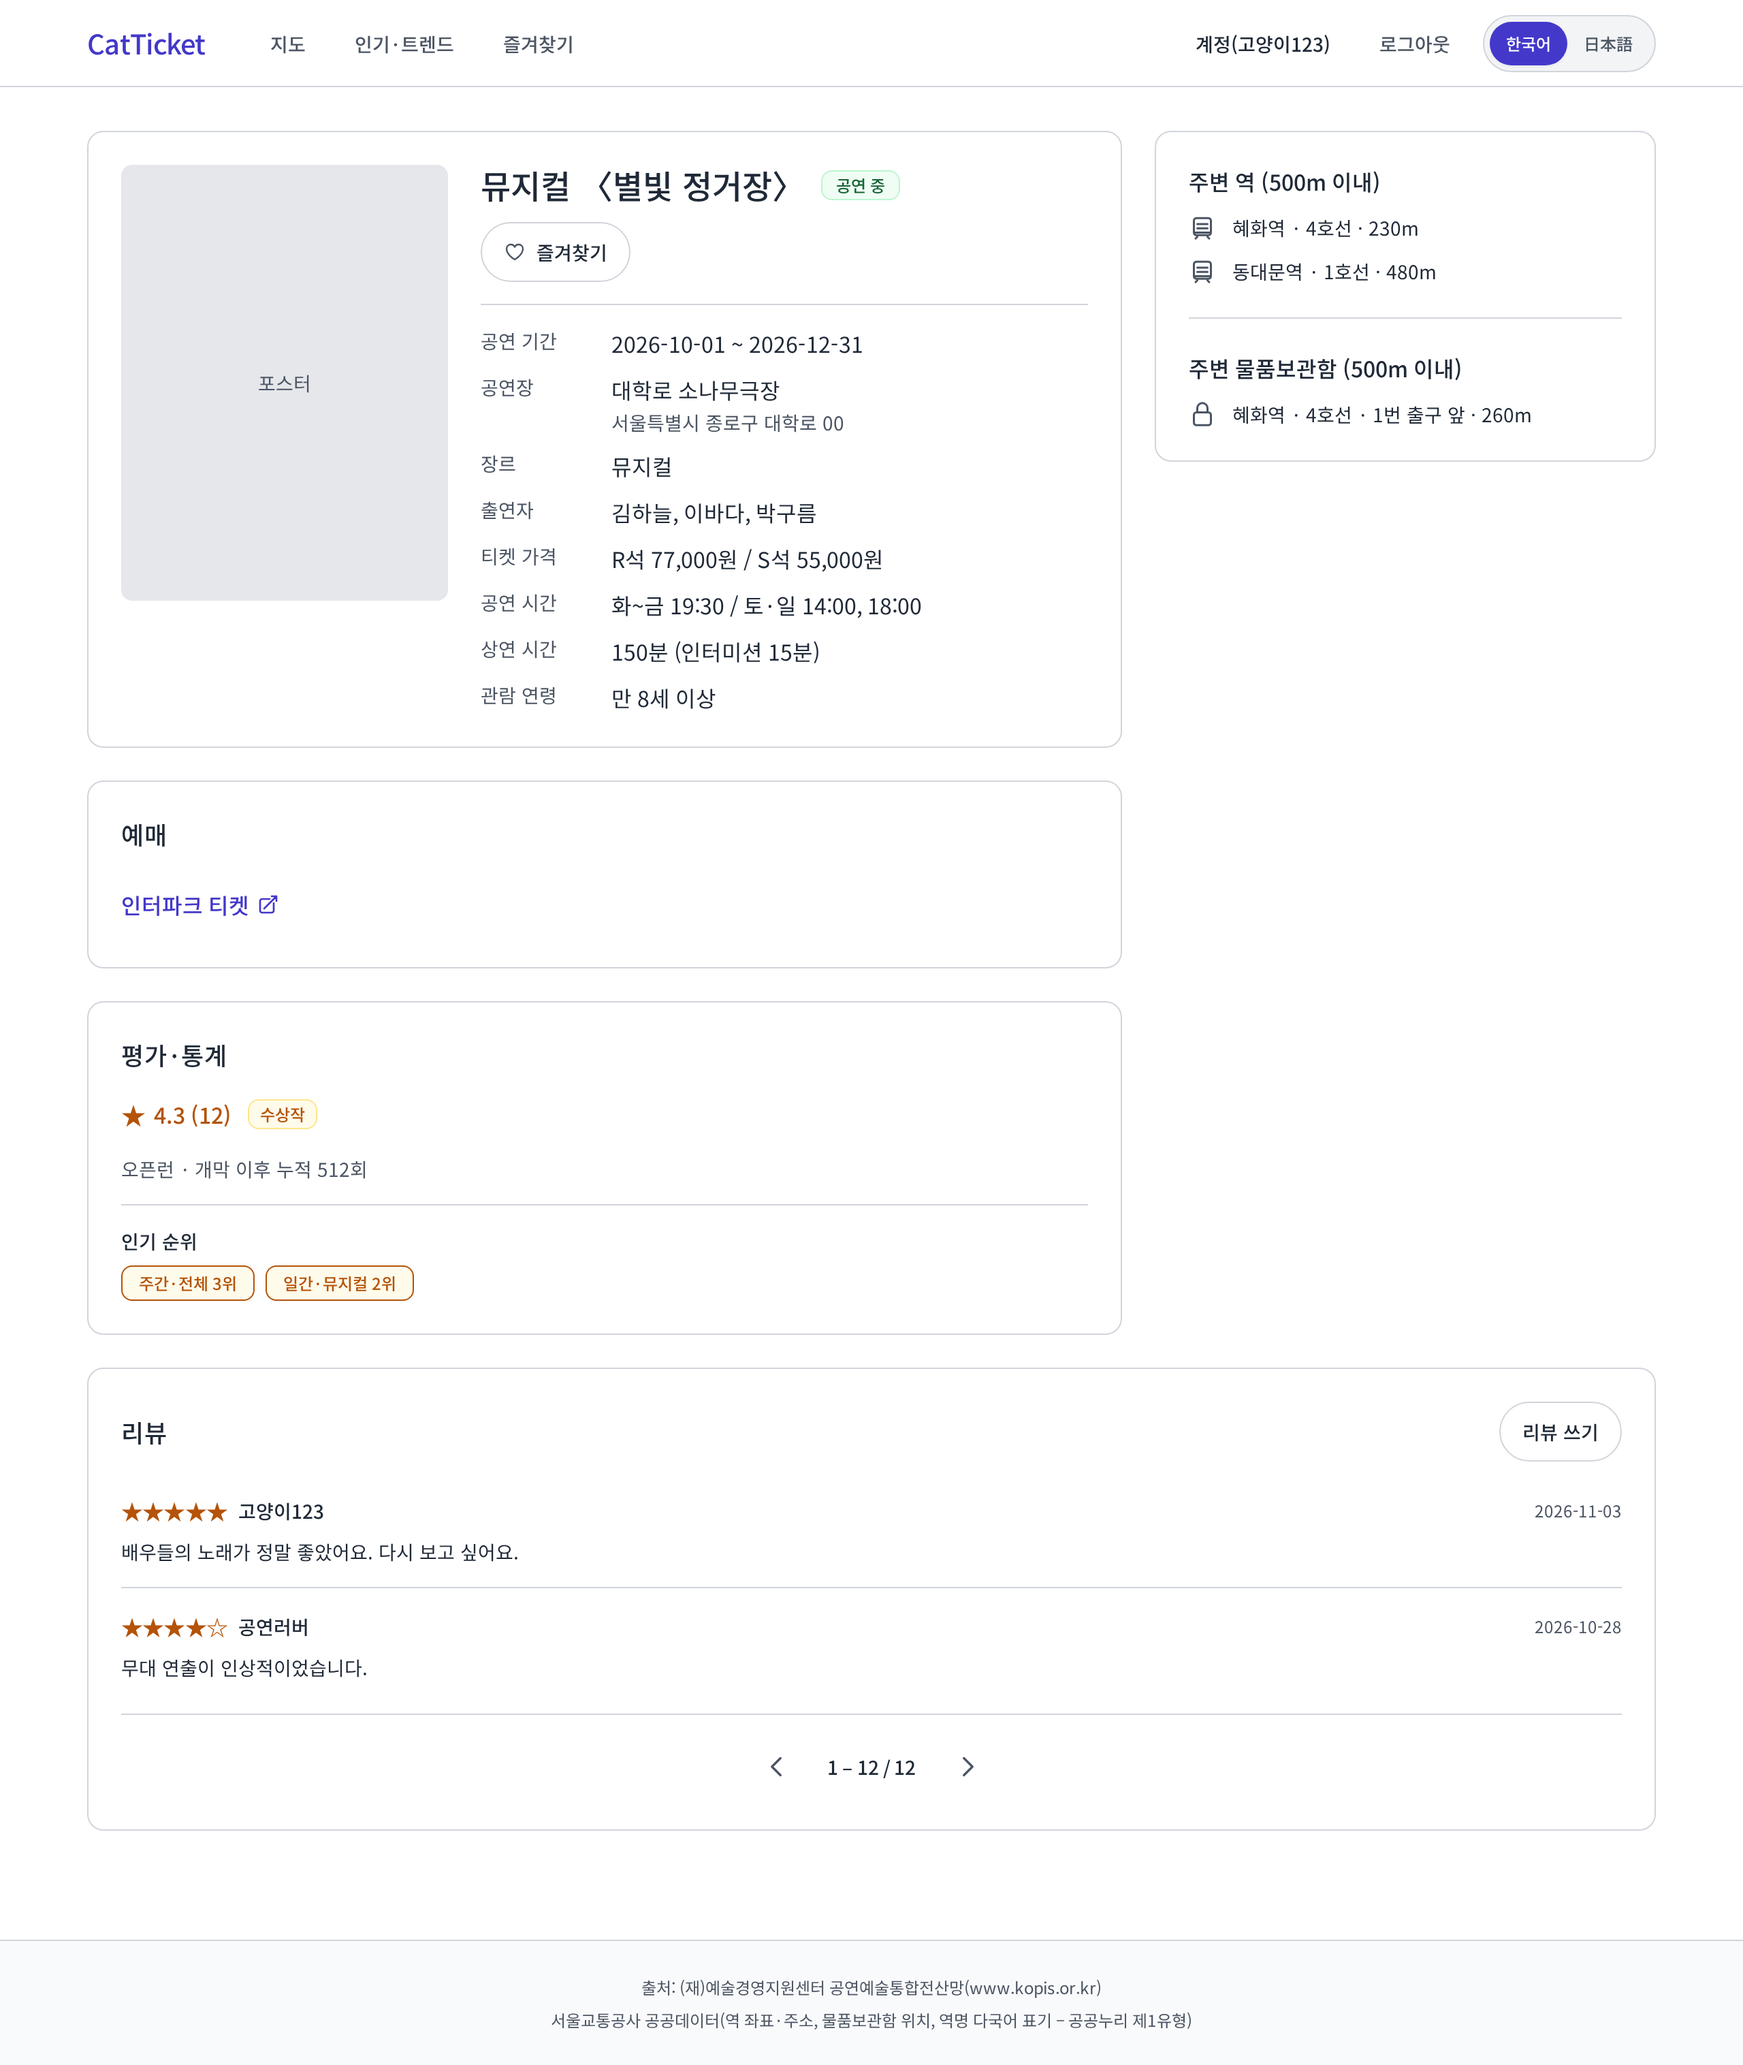
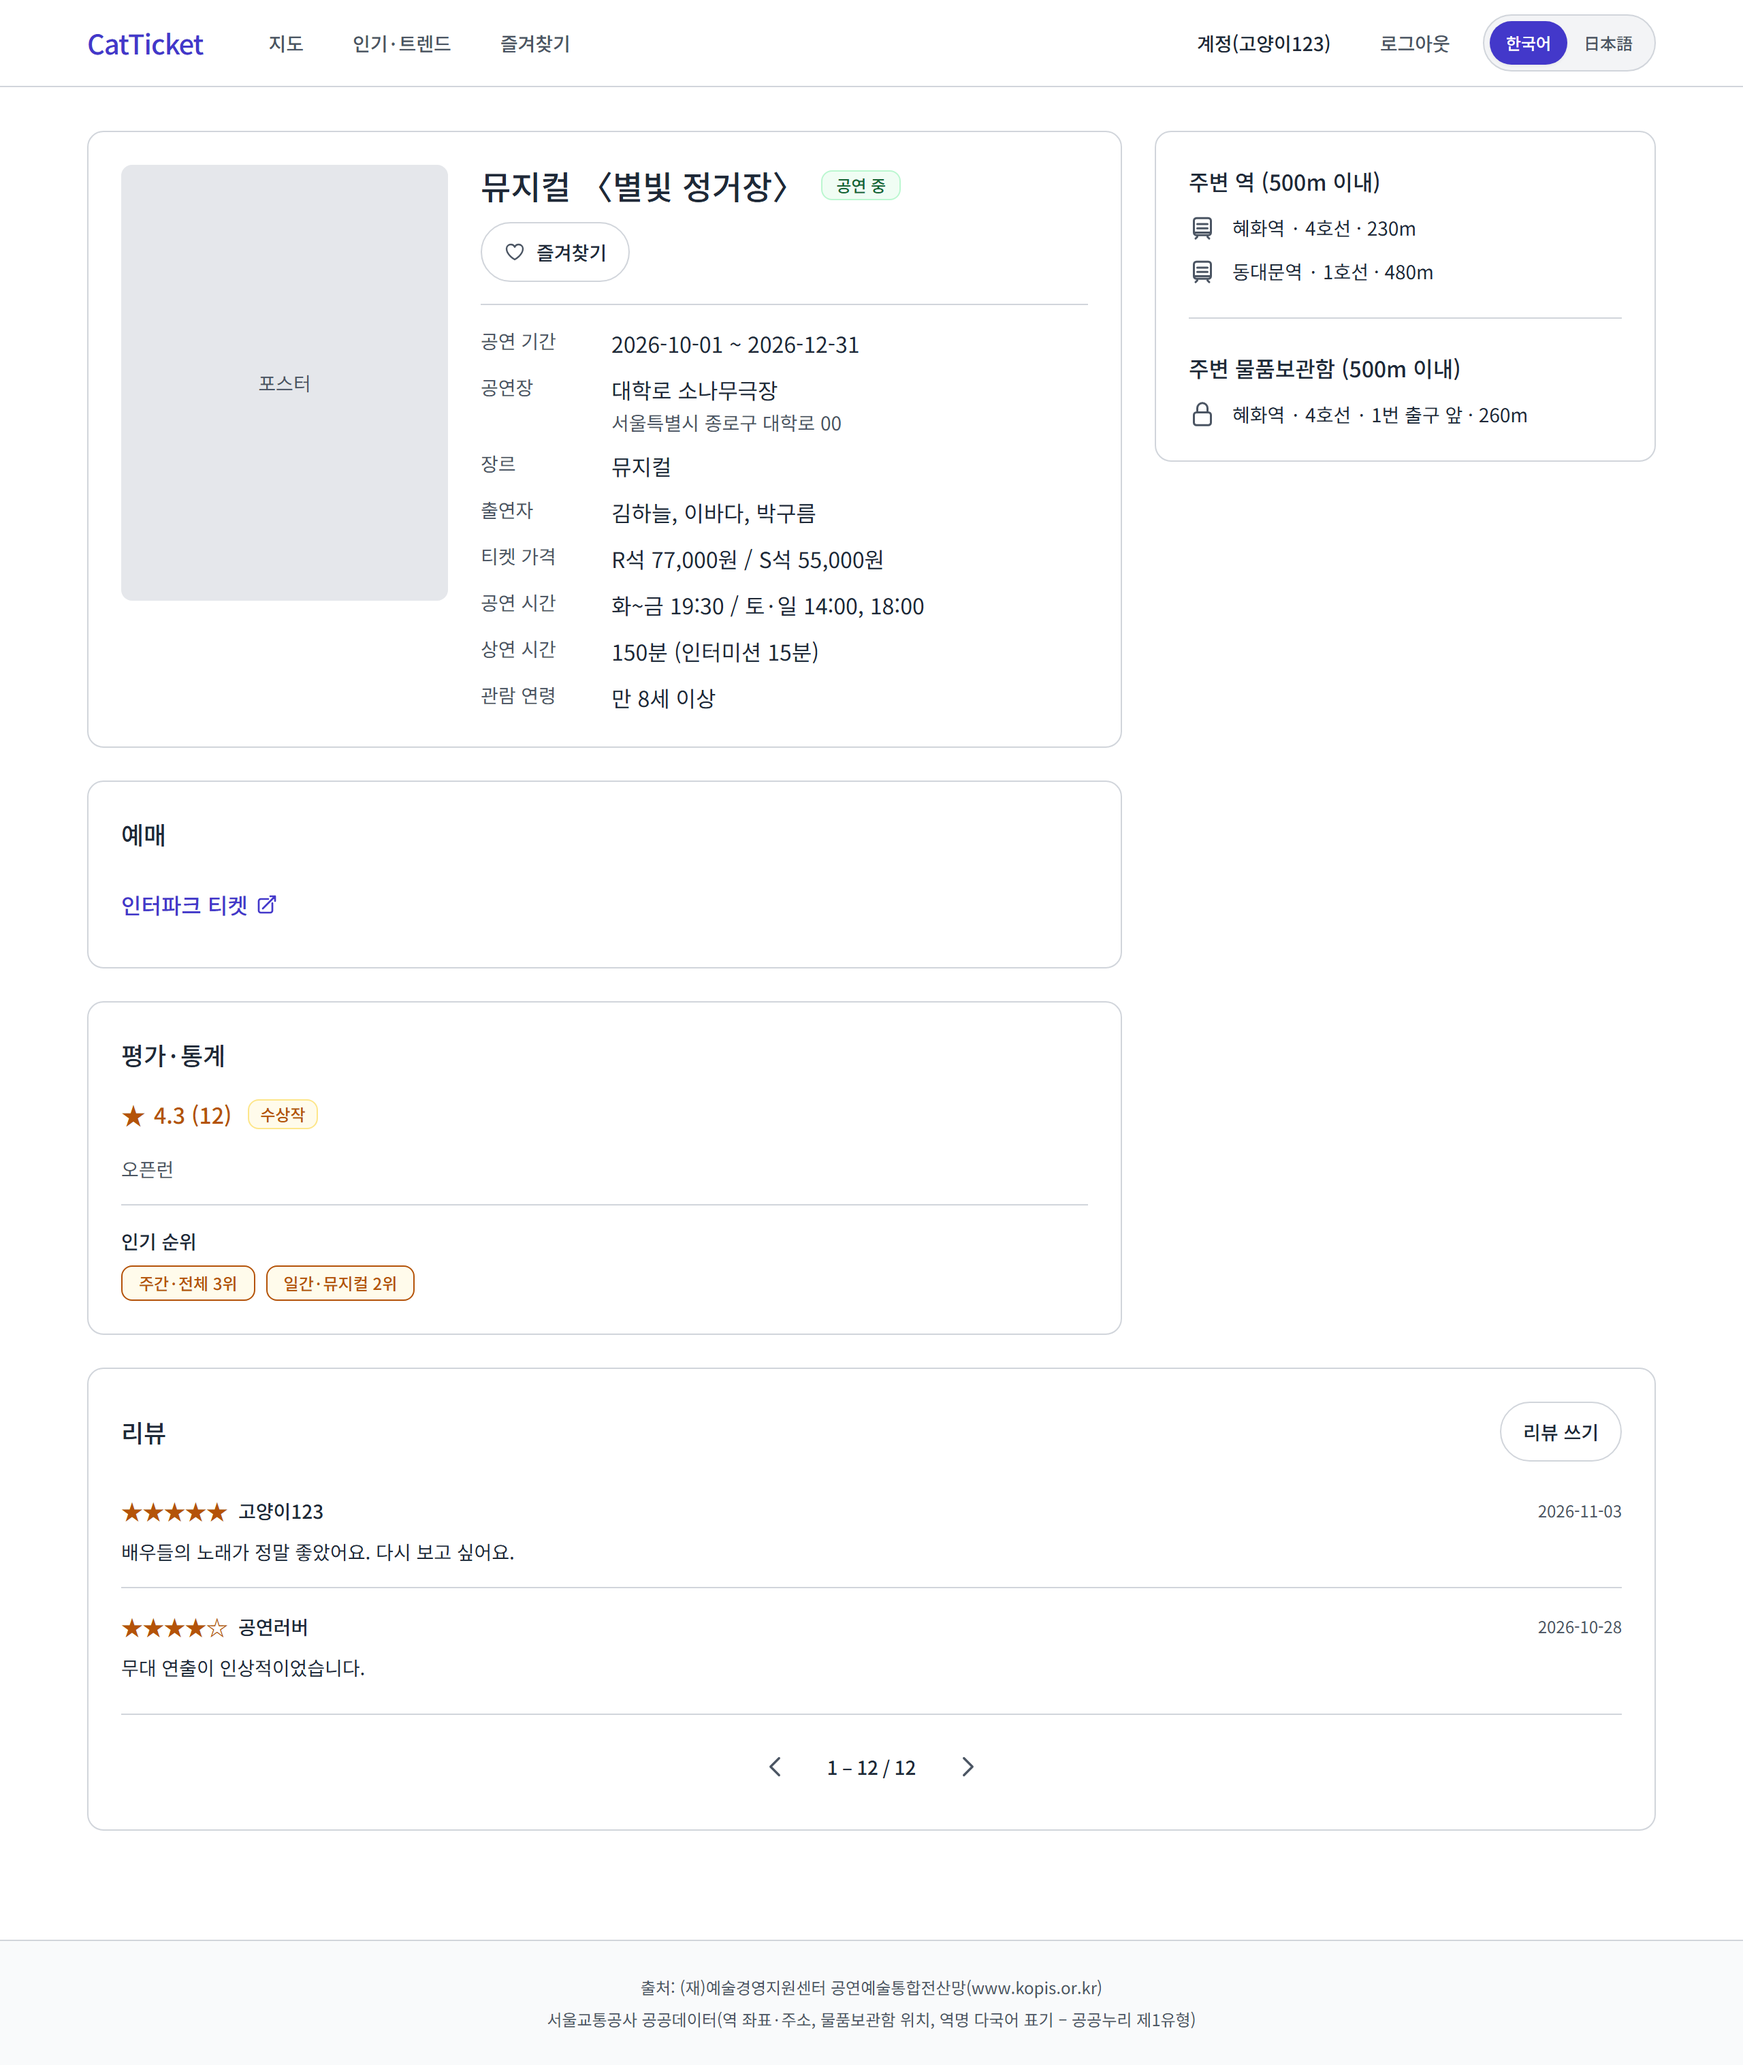
Recapture SC-02 mockup PNGs without run count

diff --git a/docs/design/README.md b/docs/design/README.md
@@ -13,7 +13,7 @@
 | 04 | [テーブル設計書](04-tables.md) | 3〜4 基本設計・詳細設計 | db-designer | ER 図、テーブル定義、インデックス | 基本設計: 承認（2026-11-06、Issue #15 コメント 6678921752）。詳細設計: レビュー済み（Issue #20。確認2 の決定を反映済み、Flyway の V1 を作成し test_catticket への適用を確認済み。ゲート4 の reviewer: 条件付き承認、指摘を反映済み、人間の承認待ち）。Issue #38: `performance.total_show_count` を外した（R-69。Flyway の V2 を作成し、テスト用 DB への適用を確認済み。2026-11-20）、reviewer の確認待ち |
 | 05 | [バッチ設計書](05-batch.md) | 3 基本設計 | architect | 定期処理、外部データの取り込み | 承認（2026-11-06、Issue #15 コメント 6678921752）。工程4（Issue #20）の詳細設計: レビュー済み（ゲート4: reviewer の条件付き承認（2026-11-09）の指摘を反映済み、人間の承認待ち）。Issue #36: 駅・コインロッカーのファイルの確認の結果と人間の決定を 4.2〜4.4・7 に反映（2026-11-19）、reviewer の確認待ち。Issue #38: KOPIS の実際の呼び出しの確認の結果を 3.1〜3.6・7 に反映（2026-11-20）。人間の決定（2026-11-20）で S5 をなくし欠番にした（3.6）。Issue #38 の KOPIS のクライアントの実装に合わせて 3.5 に失敗の数え方と表にない失敗を追記（2026-11-24）。Issue #38 の S1〜S4・S6 の実装で決めたことを 3.3・3.4 に追記し、S4 が保存した受賞作の受賞歴を 3.2 に決めた（2026-11-24）。Issue #38 の S7 の実装で決めたことを 3.7 に追記し、長すぎる原文・再試行しないエラーを決めた（2026-11-24）、reviewer の確認待ち |
 | 06 | [クラス設計書](06-classes.md) | 4 詳細設計 | architect | パッケージ、クラスと主なメソッド、例外の扱い | レビュー済み（Issue #20。04 の 11.7 の A-02〜A-07 を決めて 03・05 にも反映。ゲート4: reviewer の条件付き承認（2026-11-09）の指摘を反映済み、人間の承認待ち）。Issue #23 の決定 D-1〜D-4（コメント 6760227708）を反映（2026-11-10）。PR #32 の reviewer: 条件付き承認、06 への指摘を反映済み、人間の確認待ち。Issue #23 E-2・E-3 反映（2026-11-11）。Issue #36: U-03 解消、5.2（`StepSummary`）・5.4・8.1・A-07 を更新（2026-11-19）、reviewer の確認待ち。Issue #38: 5.2 に `JobLock` の外し方とジョブの `error_message` を追記、U-02 の結果コード・ジャンルを解消し 4.9・5.3・6.4・7.1 を更新（2026-11-20）。人間の決定（2026-11-20）で S5（`ShowCountStep` など）と `totalShowCount` を外した。Issue #38 の KOPIS のクライアントの実装（97ba154）で決めたことを 4.9・7.1 に追記し、直す点を U-12 にした（2026-11-24）。Issue #38 の S1〜S4・S6 の実装で決めたことを 4.9・5.2・5.3・6.4 に書き、U-11 を解消、直す点を U-13・U-14 にした（2026-11-24）。Issue #38 の S7 の実装で決めたことを 4.10 に書き、直す点を U-15 にした（2026-11-24）、reviewer の確認待ち。PR #46 の軽微1: U-12〜U-15 を解消（72d601f・ce393bd・d281b89、2026-11-24） |
-| 07 | [UI デザインガイド](07-ui-guide.md) | 3 基本設計 | ui-designer | 色・文字・余白などのトークン、画面ごとの試作（`mockups/`）との対応 | レビュー済み（2026-11-06 承認、Issue #15 コメント 6678921752。ゲート4（Issue #20）: reviewer の指摘（2026-11-09）により SC-03 の「-」の見た目を追加、人間の承認待ち。Issue #28: 色を「seed と参考の値」に、仮の文言・値、アカウントのリンク、長いニックネーム、スマホ表示の境目 960px、決定 A・B・C（160px・640px の確定、出典のリンクの名前の翻訳）を反映（2026-11-10）、reviewer の確認待ち）。Issue #40: フッターの出典のリンクの見た目（4.2.1）を追加、4.1.1 のヘッダーの幅の見積もりを実測の値に直した（2026-11-20）。Issue #40 コメント 7032252052 の人間の決定により U-4（新しいタブで開くことを見えない文言で知らせる）を解決し、2.6 の「押せる要素の間 8px」を見た目の箱どうしで測ると書いた（2026-11-20）。Issue #38 コメント 7123543509 の決定5（R-69・X-30）により、SC-02 の試作の HTML から上演回数（「개막 이후 누적 512회」）を消した（オープンランの表示は残す。PNG は作り直していない）、reviewer の確認待ち。未決事項なし |
+| 07 | [UI デザインガイド](07-ui-guide.md) | 3 基本設計 | ui-designer | 色・文字・余白などのトークン、画面ごとの試作（`mockups/`）との対応 | レビュー済み（2026-11-06 承認、Issue #15 コメント 6678921752。ゲート4（Issue #20）: reviewer の指摘（2026-11-09）により SC-03 の「-」の見た目を追加、人間の承認待ち。Issue #28: 色を「seed と参考の値」に、仮の文言・値、アカウントのリンク、長いニックネーム、スマホ表示の境目 960px、決定 A・B・C（160px・640px の確定、出典のリンクの名前の翻訳）を反映（2026-11-10）、reviewer の確認待ち）。Issue #40: フッターの出典のリンクの見た目（4.2.1）を追加、4.1.1 のヘッダーの幅の見積もりを実測の値に直した（2026-11-20）。Issue #40 コメント 7032252052 の人間の決定により U-4（新しいタブで開くことを見えない文言で知らせる）を解決し、2.6 の「押せる要素の間 8px」を見た目の箱どうしで測ると書いた（2026-11-20）。Issue #38 コメント 7123543509 の決定5（R-69・X-30）により、SC-02 の試作の HTML から上演回数（「개막 이후 누적 512회」）を消した（オープンランの表示は残す）。Issue #38 コメント 7152704798 の決定3により、PNG 2 枚を直した HTML からヘッドレスの Chrome で撮り直した（2026-11-25）、reviewer の確認待ち。未決事項なし |
 
 テストは `docs/test/`（工程6、qa-engineer）、運用手順は `docs/ops/`（工程7、実行 Claude）に置く。
 
@@ -36,6 +36,6 @@
 | 04 | 테이블 설계서 | 3~4 기본설계·상세설계 | db-designer | ER 다이어그램, 테이블 정의, 인덱스 | 기본설계: 승인(2026-11-06, Issue #15 코멘트 6678921752). 상세설계: 리뷰 완료(Issue #20. 확인 2의 결정을 반영함, Flyway V1을 작성하고 test_catticket 적용을 확인함. 게이트 4 reviewer: 조건부 승인, 지적을 반영함, 사람의 승인 대기). Issue #38: `performance.total_show_count`를 뺐다(R-69. Flyway V2를 작성하고 테스트용 DB 적용을 확인함. 2026-11-20), reviewer 확인 대기 |
 | 05 | 배치 설계서 | 3 기본설계 | architect | 정기 처리, 외부 데이터 수집 | 승인(2026-11-06, Issue #15 코멘트 6678921752). 공정 4(Issue #20)의 상세설계: 리뷰 완료(관문 4: reviewer 조건부 승인(2026-11-09)의 지적을 반영함, 사람의 승인 대기). Issue #36: 역·물품보관함 파일 확인 결과와 사람의 결정을 4.2~4.4·7에 반영(2026-11-19), reviewer 확인 대기. Issue #38: KOPIS 실제 호출 확인 결과를 3.1~3.6·7에 반영(2026-11-20). 사람의 결정(2026-11-20)으로 S5를 없애고 결번으로 했다(3.6). Issue #38의 KOPIS 클라이언트 구현에 맞춰 3.5에 실패 세는 법과 표에 없는 실패를 추가(2026-11-24). Issue #38의 S1~S4·S6 구현에서 정한 것을 3.3·3.4에 추가하고, S4가 저장한 수상작의 수상 이력을 3.2에 정했다(2026-11-24). Issue #38의 S7 구현에서 정한 것을 3.7에 추가하고, 너무 긴 원문·재시도하지 않는 오류를 정했다(2026-11-24), reviewer 확인 대기 |
 | 06 | 클래스 설계서 | 4 상세설계 | architect | 패키지, 클래스와 주요 메서드, 예외 처리 | 리뷰 완료(Issue #20. 04의 11.7의 A-02~A-07을 정해 03·05에도 반영. 관문 4: reviewer 조건부 승인(2026-11-09)의 지적을 반영함, 사람의 승인 대기). Issue #23의 결정 D-1~D-4(코멘트 6760227708)를 반영(2026-11-10). PR #32 reviewer: 조건부 승인, 06에 대한 지적을 반영함, 사람의 확인 대기. Issue #23 E-2·E-3 반영(2026-11-11). Issue #36: U-03 해소, 5.2(`StepSummary`)·5.4·8.1·A-07 갱신(2026-11-19), reviewer 확인 대기. Issue #38: 5.2에 `JobLock` 해제 방법과 잡의 `error_message`를 추가, U-02의 결과 코드·장르를 해소하고 4.9·5.3·6.4·7.1을 갱신(2026-11-20). 사람의 결정(2026-11-20)으로 S5(`ShowCountStep` 등)와 `totalShowCount`를 뺐다. Issue #38의 KOPIS 클라이언트 구현(97ba154)에서 정한 것을 4.9·7.1에 추가하고 고칠 점을 U-12로 했다(2026-11-24). Issue #38의 S1~S4·S6 구현에서 정한 것을 4.9·5.2·5.3·6.4에 쓰고, U-11을 해소하고, 고칠 점을 U-13·U-14로 했다(2026-11-24). Issue #38의 S7 구현에서 정한 것을 4.10에 쓰고 고칠 점을 U-15로 했다(2026-11-24), reviewer 확인 대기. PR #46의 경미 1: U-12~U-15 해소(72d601f·ce393bd·d281b89, 2026-11-24) |
-| 07 | UI 디자인 가이드 | 3 기본설계 | ui-designer | 색·글자·여백 등 토큰, 화면별 시안(`mockups/`)과의 대응 | 리뷰 완료(2026-11-06 승인, Issue #15 코멘트 6678921752. 관문 4(Issue #20): reviewer 지적(2026-11-09)에 따라 SC-03의 "-" 표시 방식을 추가, 사람의 승인 대기. Issue #28: 색을 "seed와 참고값"으로, 임시 문구·값, 계정 링크, 긴 닉네임, 스마트폰 표시 경계 960px, 결정 A·B·C(160px·640px 확정, 출처 링크 이름 번역)를 반영(2026-11-10), reviewer 확인 대기). Issue #40: 푸터 출처 링크의 겉모습(4.2.1)을 추가, 4.1.1의 헤더 폭 어림을 실측 값으로 고침(2026-11-20). Issue #40 코멘트 7032252052의 사람의 결정에 따라 U-4(새 탭으로 열린다는 것을 보이지 않는 문구로 알림)를 해결하고, 2.6의 "누를 수 있는 요소 사이 8px"를 보이는 상자끼리 잰다고 썼다(2026-11-20). Issue #38 코멘트 7123543509의 결정 5(R-69·X-30)에 따라 SC-02 시안 HTML에서 상연 횟수("개막 이후 누적 512회")를 지웠다(오픈런 표시는 남김. PNG는 다시 만들지 않음), reviewer 확인 대기. 미결 사항 없음 |
+| 07 | UI 디자인 가이드 | 3 기본설계 | ui-designer | 색·글자·여백 등 토큰, 화면별 시안(`mockups/`)과의 대응 | 리뷰 완료(2026-11-06 승인, Issue #15 코멘트 6678921752. 관문 4(Issue #20): reviewer 지적(2026-11-09)에 따라 SC-03의 "-" 표시 방식을 추가, 사람의 승인 대기. Issue #28: 색을 "seed와 참고값"으로, 임시 문구·값, 계정 링크, 긴 닉네임, 스마트폰 표시 경계 960px, 결정 A·B·C(160px·640px 확정, 출처 링크 이름 번역)를 반영(2026-11-10), reviewer 확인 대기). Issue #40: 푸터 출처 링크의 겉모습(4.2.1)을 추가, 4.1.1의 헤더 폭 어림을 실측 값으로 고침(2026-11-20). Issue #40 코멘트 7032252052의 사람의 결정에 따라 U-4(새 탭으로 열린다는 것을 보이지 않는 문구로 알림)를 해결하고, 2.6의 "누를 수 있는 요소 사이 8px"를 보이는 상자끼리 잰다고 썼다(2026-11-20). Issue #38 코멘트 7123543509의 결정 5(R-69·X-30)에 따라 SC-02 시안 HTML에서 상연 횟수("개막 이후 누적 512회")를 지웠다(오픈런 표시는 남김). Issue #38 코멘트 7152704798의 결정 3에 따라 PNG 2장을 고친 HTML에서 헤드리스 Chrome으로 다시 찍었다(2026-11-25), reviewer 확인 대기. 미결 사항 없음 |
 
 테스트는 `docs/test/`(공정 6, qa-engineer), 운영 절차는 `docs/ops/`(공정 7, 실행 Claude)에 둔다.
